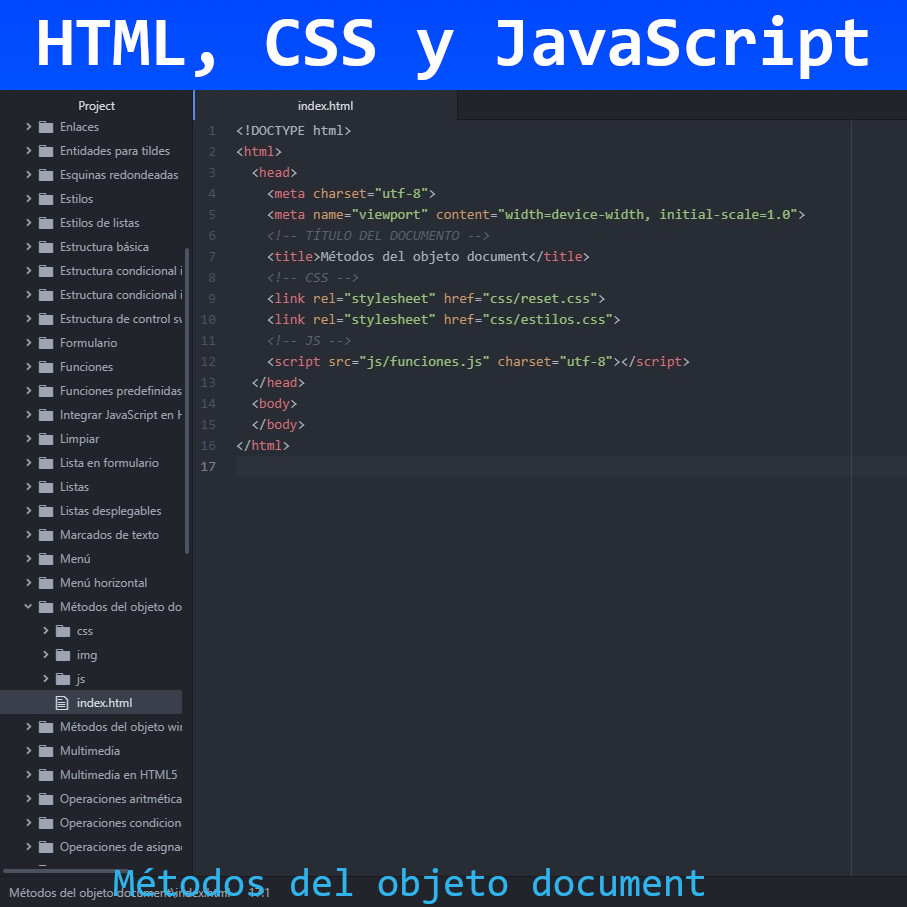
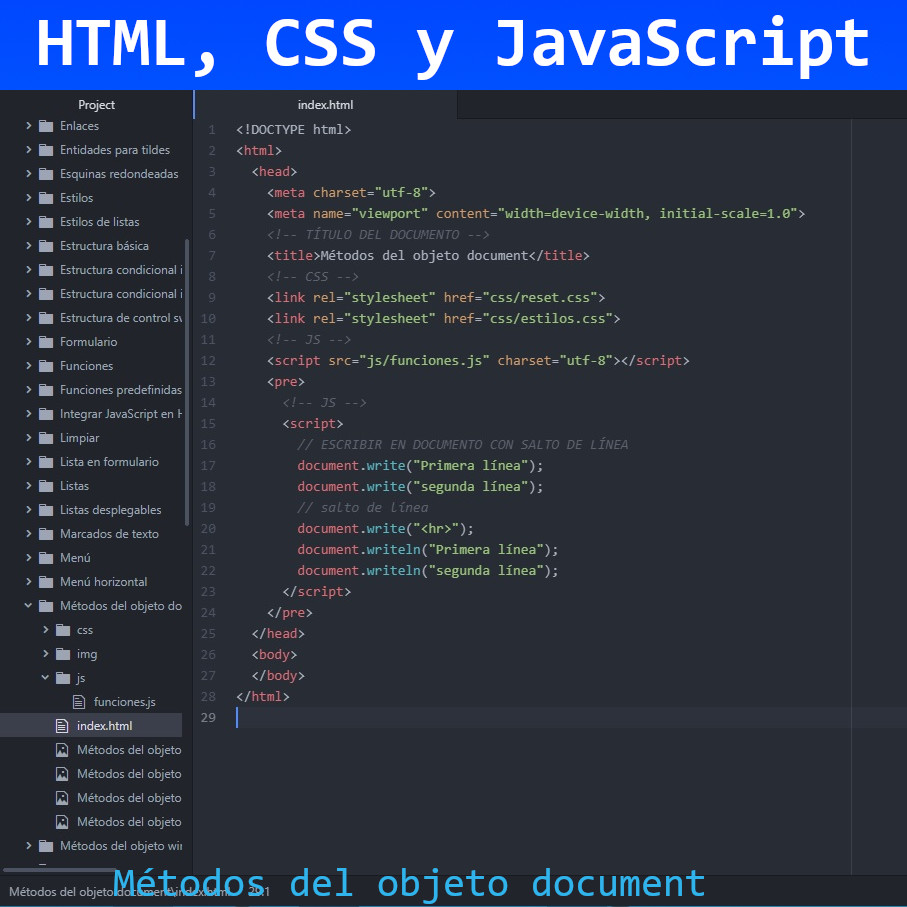
Métodos del objeto document
Métodos del objeto document en JavaScript

diff --git a/HTML, CSS y JavaScript/Métodos del objeto document/index.html b/HTML, CSS y JavaScript/Métodos del objeto document/index.html
@@ -10,6 +10,18 @@
     <link rel="stylesheet" href="css/estilos.css">
     <!-- JS -->
     <script src="js/funciones.js" charset="utf-8"></script>
+    <pre>
+      <!-- JS -->
+      <script>
+        // ESCRIBIR EN DOCUMENTO CON SALTO DE LÍNEA
+        document.write("Primera línea");
+        document.write("segunda línea");
+        // salto de línea
+        document.write("<hr>");
+        document.writeln("Primera línea");
+        document.writeln("segunda línea");
+      </script>
+    </pre>
   </head>
   <body>
   </body>

diff --git a/HTML, CSS y JavaScript/Métodos del objeto document/js/funciones.js b/HTML, CSS y JavaScript/Métodos del objeto document/js/funciones.js
@@ -1,2 +1,3 @@
 // ESCRIBIR EN DOCUMENTO
 document.write("<h1>Métodos del objeto document</h1>");
+document.write("<hr>");
